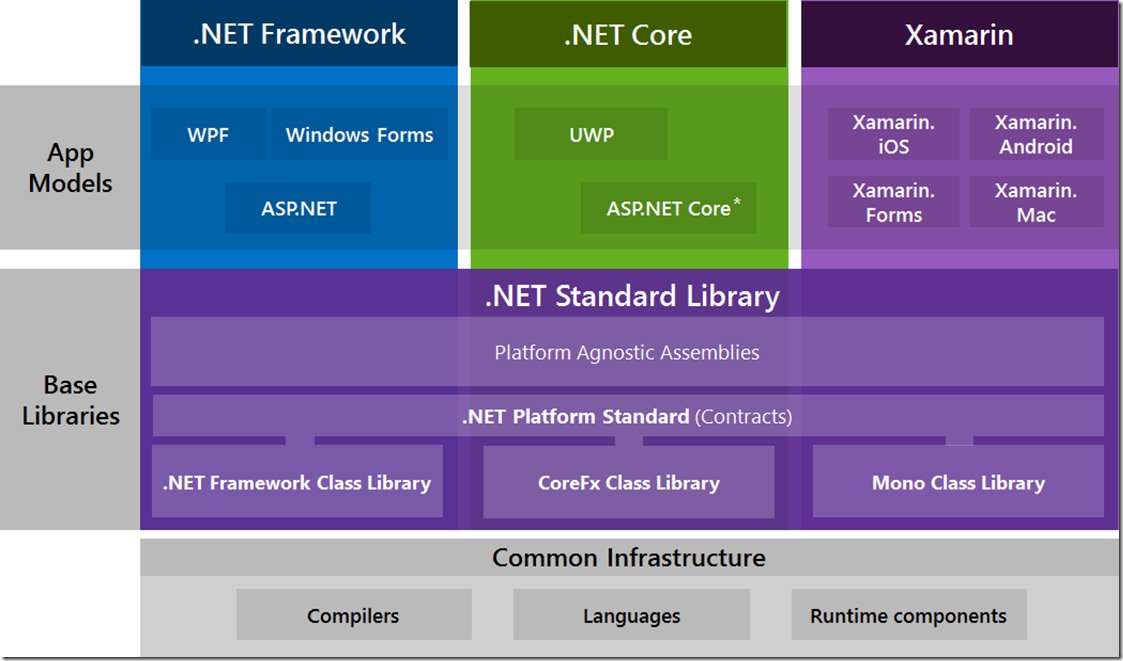
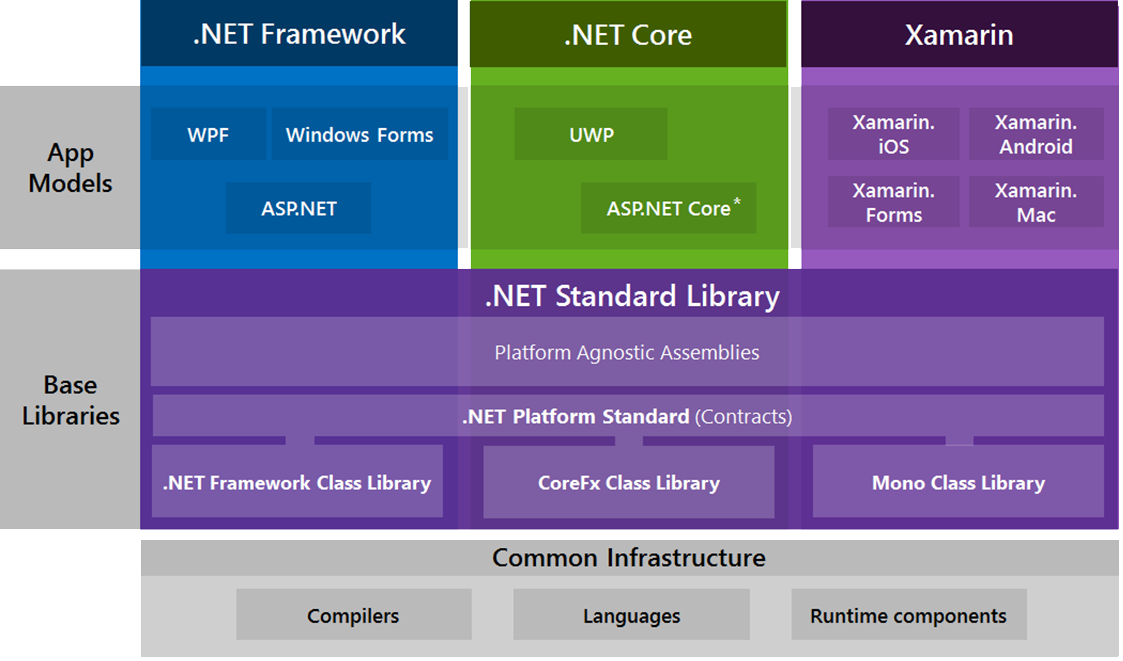
.

Changed region(s): [[0.0, 0.0, 1.0, 1.0]]

diff --git a/Lectures/Lecture01/PITCHME.md b/Lectures/Lecture01/PITCHME.md
@@ -207,7 +207,7 @@ Applications provide better response times and require less compute power. </br>
 +++
 ## Architecture
 <div class="center">
-<img src="/Lectures/Lecture01/Assets/img/dot_net_architecture.png" />
+<img src="/Lectures/Lecture01/Assets/img/dot_net_architecture.jpg" />
 </div>
 
 +++
@@ -224,14 +224,14 @@ Applications provide better response times and require less compute power. </br>
 +++
 ## Benefits:
 * Performance improvements
-* The ability to easily use components developed in other languages
+* Easy use of components developed in other languages
 * Extensible types provided by a class library
-* Language features such as inheritance, interfaces, and overloading for OOP
-* Supports explicit free threading that allows creation of multithreaded
-* Supports structured exception handling
-* Supports custom attributes
+* Inheritance, interfaces, and overloading for OOP
+* Free threading
+* Structured exception handling
+* Custom attributes
 * Garbage collection
-* Use of delegates instead of function pointers
+* Delegates instead of function pointers
 
 +++
 ## Standard Libraries
@@ -245,7 +245,7 @@ Applications provide better response times and require less compute power. </br>
 | ⋮        | ⋮  |
 
 +++
-# Application models
+## Application models
 <div class="center">
 <img src="/Lectures/Lecture01/Assets/img/dot_net_libraries.png" />
 </div>
@@ -267,7 +267,7 @@ Applications provide better response times and require less compute power. </br>
 
 +++
 <div class="center">
-<img src="/Lectures/Lecture01/Assets/img/gc_collecting.0png" />
+<img src="/Lectures/Lecture01/Assets/img/gc_collecting.png" />
 </div>
 
 ---
